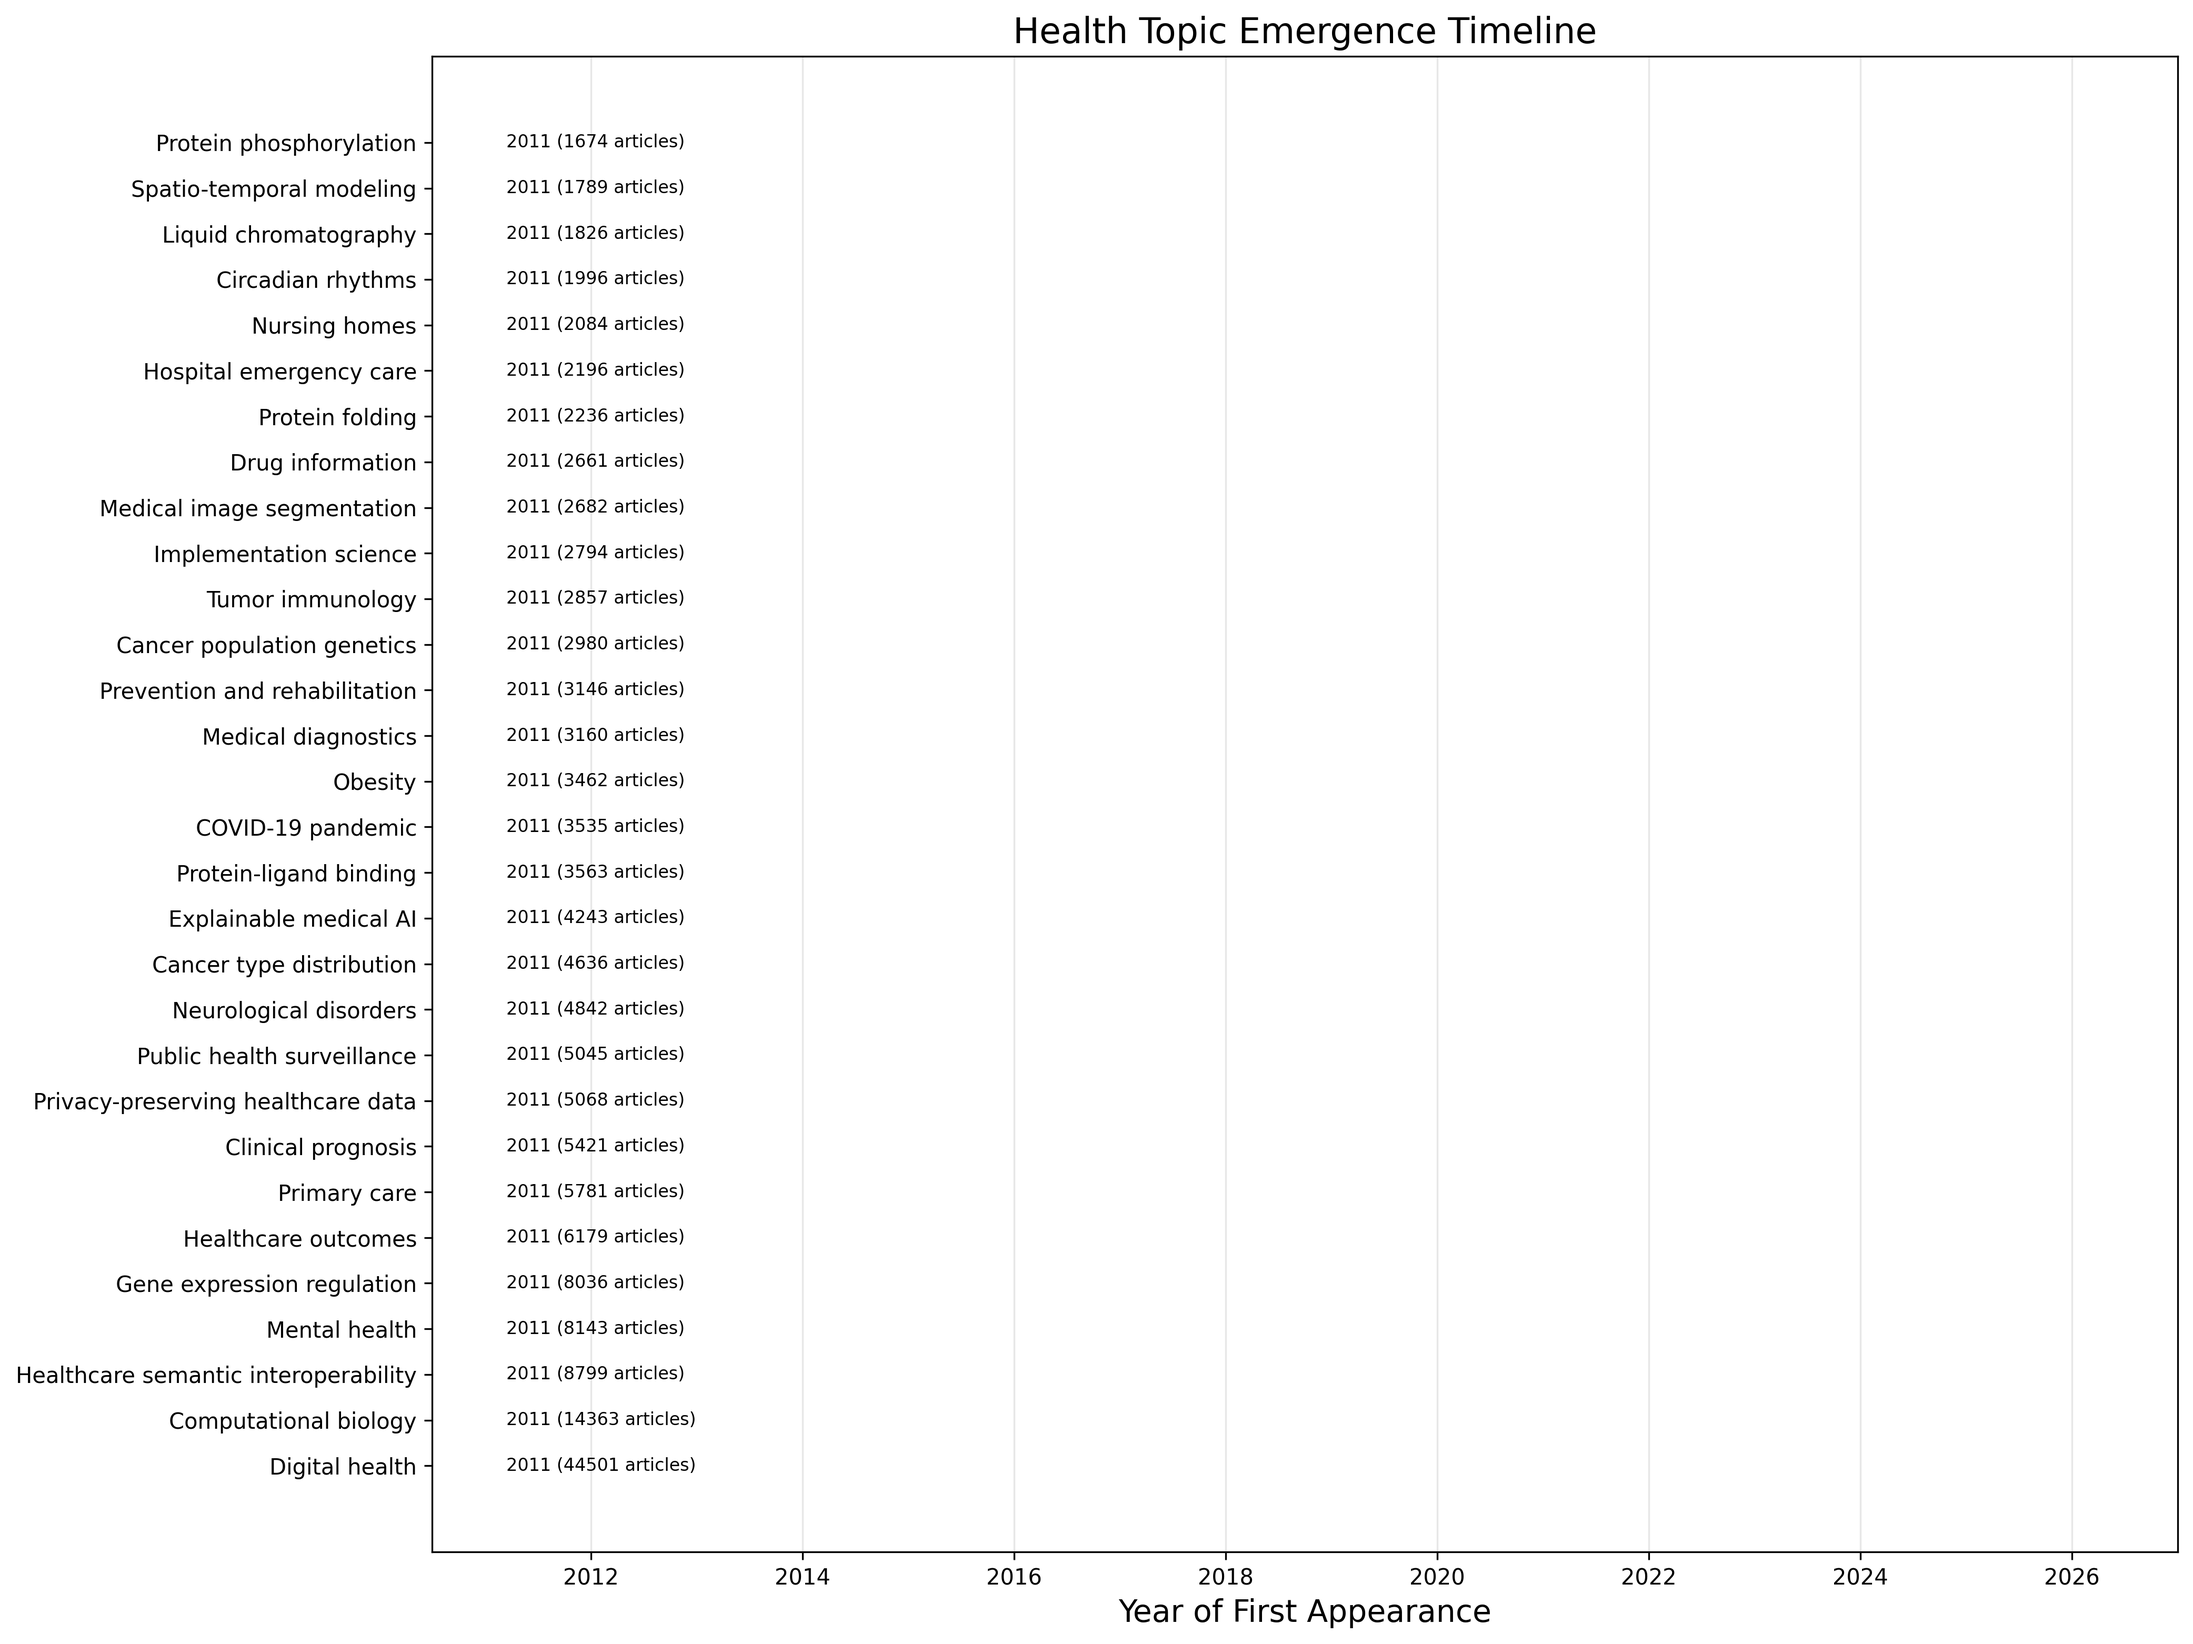
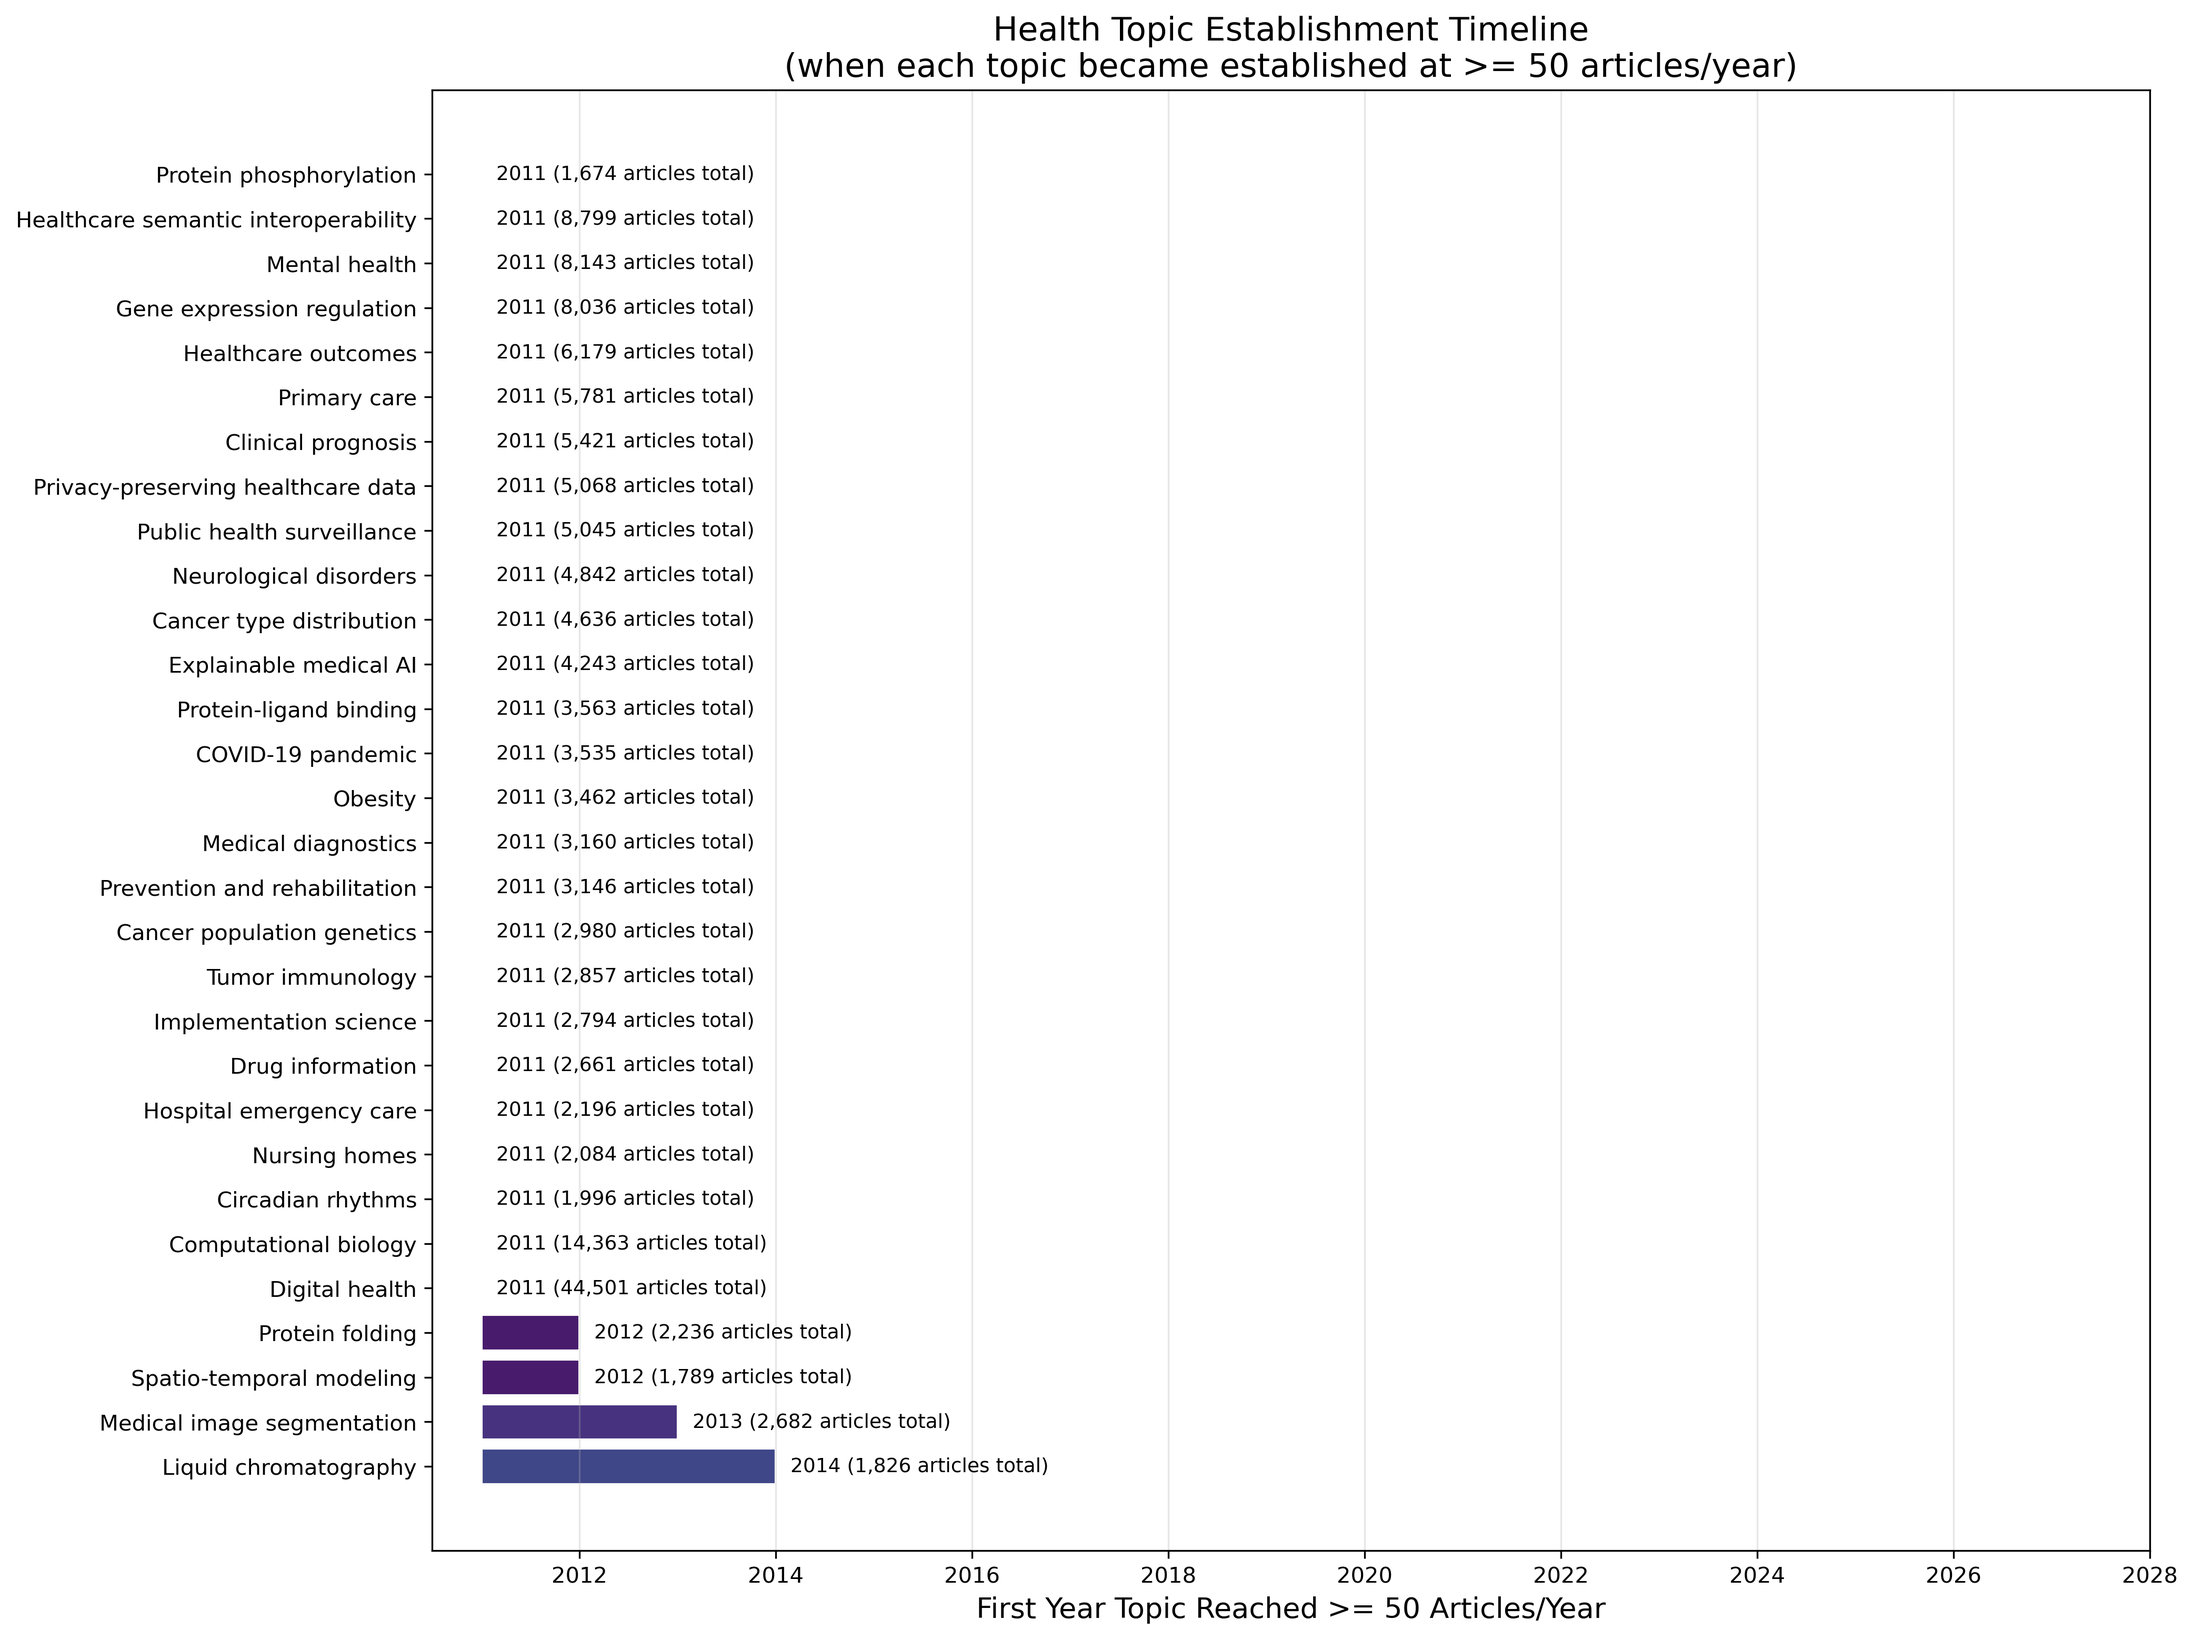
Fix N4 (meaningful emergence threshold) and N6 (readable journal abbreviations)

diff --git a/fix_n4_n6.py b/fix_n4_n6.py
@@ -1,0 +1,280 @@
+"""
+Fix N4 (topic emergence) and N6 (journal similarity network) visualizations.
+
+N4 fix: redefine "emergence" as the first year a topic became established
+        (>= 50 articles/year), rather than the first year it had any article.
+        This produces a meaningful timeline showing which topics became
+        established early vs. recently.
+
+N6 fix: use clean journal abbreviations, larger figure, kamada-kawai layout
+        with improved spacing for readable labels.
+"""
+
+import csv
+import json
+import os
+from collections import Counter, defaultdict
+
+import matplotlib
+matplotlib.use("Agg")
+import matplotlib.pyplot as plt
+import numpy as np
+import pandas as pd
+
+DATA_DIR = os.path.expanduser("~/Dropbox/multi_journal_trend_analysis/data")
+VIZ_DIR = os.path.join(DATA_DIR, "visualizations")
+HIER_DIR = os.path.join(DATA_DIR, "hierarchy")
+ARTICLES_CSV = os.path.join(DATA_DIR, "pubmed_all_journals_2011_2025_w_keywords.csv")
+
+YEARS = list(range(2011, 2026))
+
+# Clean journal abbreviations
+JOURNAL_ABBR = {
+    "Journal of the American Medical Informatics Association (JAMIA)": "JAMIA",
+    "Journal of Medical Internet Research (JMIR)": "JMIR",
+    "IEEE Journal of Biomedical and Health Informatics (J-BHI)": "IEEE J-BHI",
+    "Journal of Biomedical Informatics (JBI)": "JBI",
+    "International Journal of Medical Informatics (IJMI)": "IJMI",
+    "JMIR Medical Informatics (JMI)": "JMIR Med Inform",
+    "npj Digital Medicine": "npj Digit Med",
+    "The Lancet Digital Health": "Lancet Digit Health",
+    "Briefings in Bioinformatics": "Brief Bioinform",
+    "Bioinformatics": "Bioinformatics",
+    "JAMIA Open": "JAMIA Open",
+    "BMC Medical Informatics and Decision Making": "BMC Med Inform",
+    "PLOS Digital Health": "PLOS Digit Health",
+    "Journal of Medical Systems": "J Med Syst",
+    "Methods of Information in Medicine": "Methods Inf Med",
+    "BMJ Health & Care Informatics": "BMJ Health Care",
+    "Health Informatics Journal": "Health Inform J",
+    "Applied Clinical Informatics": "Appl Clin Inform",
+    "JMIR mHealth and uHealth": "JMIR mHealth",
+    "Computers in Biology and Medicine": "Comput Biol Med",
+    "Artificial Intelligence in Medicine": "Artif Intell Med",
+    "Journal of Clinical and Translational Science": "J Clin Transl Sci",
+    "Database: The Journal of Biological Databases and Curation": "Database",
+    "Bioinformatics Advances": "Bioinform Adv",
+    "Journal of Innovation in Health Informatics": "J Innov Health Inform",
+    "Digital Biomarkers": "Digit Biomark",
+    "Frontiers in Digital Health": "Front Digit Health",
+    "Nature Medicine": "Nat Med",
+    "Nature Methods": "Nat Methods",
+}
+
+
+# ---------------------------------------------------------------------------
+# N4 FIX: Topic Emergence (defined as first year reaching threshold)
+# ---------------------------------------------------------------------------
+
+def plot_emergence_fixed(domain, threshold=50, top_n=30):
+    """Plot when each top topic became 'established' (>= threshold articles/year)."""
+    csv_path = os.path.join(VIZ_DIR, f"{domain}_topic_year_counts.csv")
+    df = pd.read_csv(csv_path)
+
+    # For each topic, find the first year it reached the threshold
+    rows = []
+    for _, row in df.iterrows():
+        topic = row["topic"]
+        total = row["total"]
+        # Find first year >= threshold
+        emergence_year = None
+        for y in YEARS:
+            if row[str(y)] >= threshold:
+                emergence_year = y
+                break
+        if emergence_year is None:
+            continue
+        rows.append({
+            "topic": topic,
+            "total": total,
+            "emergence_year": emergence_year,
+        })
+
+    if not rows:
+        print(f"  No topics found for {domain}")
+        return
+
+    emerge_df = pd.DataFrame(rows)
+    # Take top N by total
+    emerge_df = emerge_df.nlargest(top_n, "total")
+    # Sort by emergence year (newest first at top of plot)
+    emerge_df = emerge_df.sort_values("emergence_year", ascending=False)
+
+    # Color by emergence year
+    norm = (emerge_df["emergence_year"] - YEARS[0]) / (YEARS[-1] - YEARS[0])
+    colors = plt.cm.viridis(norm)
+
+    fig, ax = plt.subplots(figsize=(14, max(8, top_n * 0.35)))
+    ax.barh(
+        emerge_df["topic"],
+        emerge_df["emergence_year"] - YEARS[0],
+        left=YEARS[0],
+        color=colors,
+        edgecolor="white",
+    )
+    for i, row in enumerate(emerge_df.itertuples()):
+        ax.text(
+            row.emergence_year + 0.15,
+            i,
+            f"{row.emergence_year} ({int(row.total):,} articles total)",
+            va="center",
+            fontsize=9,
+        )
+
+    ax.set_xlabel(
+        f"First Year Topic Reached >= {threshold} Articles/Year",
+        fontsize=13,
+    )
+    ax.set_title(
+        f"{domain.title()} Topic Establishment Timeline\n"
+        f"(when each topic became established at >= {threshold} articles/year)",
+        fontsize=15,
+    )
+    ax.set_xlim(YEARS[0] - 0.5, YEARS[-1] + 3)
+    ax.grid(True, alpha=0.3, axis="x")
+    plt.tight_layout()
+
+    out_path = os.path.join(VIZ_DIR, f"n4_{domain}_topic_emergence.png")
+    plt.savefig(out_path, dpi=300, bbox_inches="tight")
+    plt.close()
+    print(f"  Saved {out_path}")
+
+
+# ---------------------------------------------------------------------------
+# N6 FIX: Journal Similarity Network with readable labels
+# ---------------------------------------------------------------------------
+
+def plot_similarity_network_fixed():
+    """Re-plot the journal similarity network with clean abbreviations and layout."""
+    import networkx as nx
+    from sklearn.metrics.pairwise import cosine_similarity
+
+    # Load the topic mapping data we need
+    print("  Loading articles CSV...")
+    df = pd.read_csv(ARTICLES_CSV, quoting=csv.QUOTE_ALL)
+
+    print("  Loading methodology topics...")
+    with open(os.path.join(HIER_DIR, "methodology_final_topics.json"), "r") as f:
+        method_topics = json.load(f)
+
+    # Build keyword -> topic name map
+    kw_to_topic = defaultdict(set)
+    for tid, data in method_topics.items():
+        for kw in data.get("keywords", []):
+            kw_to_topic[kw.strip().lower()].add(data["name"])
+
+    # For each journal, count articles per topic
+    print("  Mapping articles to topics...")
+    journal_topic = defaultdict(Counter)
+    journal_total = Counter()
+
+    for _, row in df.iterrows():
+        kw_str = row.get("keywords", "")
+        if pd.isna(kw_str) or not kw_str:
+            continue
+        journal = row.get("journal", "unknown")
+        journal_total[journal] += 1
+        topics_in_article = set()
+        for kw in str(kw_str).split(";"):
+            kw = kw.strip().lower()
+            if kw in kw_to_topic:
+                topics_in_article.update(kw_to_topic[kw])
+        for t in topics_in_article:
+            journal_topic[journal][t] += 1
+
+    # Build topic-distribution vectors per journal
+    all_topics = sorted({t for j in journal_topic.values() for t in j})
+    journals = sorted(journal_topic.keys())
+
+    vectors = []
+    for j in journals:
+        total = journal_total[j]
+        vec = np.array([journal_topic[j].get(t, 0) / max(total, 1) for t in all_topics])
+        vectors.append(vec)
+    vectors = np.array(vectors)
+
+    sim = cosine_similarity(vectors)
+
+    # Build network
+    G = nx.Graph()
+    for j in journals:
+        abbr = JOURNAL_ABBR.get(j, j[:20])
+        G.add_node(abbr, size=journal_total[j])
+
+    # Connect journals with similarity above 70th percentile
+    upper = sim[np.triu_indices_from(sim, k=1)]
+    threshold = np.percentile(upper, 70)
+    for i in range(len(journals)):
+        for j in range(i + 1, len(journals)):
+            if sim[i, j] > threshold:
+                a = JOURNAL_ABBR.get(journals[i], journals[i][:20])
+                b = JOURNAL_ABBR.get(journals[j], journals[j][:20])
+                G.add_edge(a, b, weight=float(sim[i, j]))
+
+    print(f"  Network: {len(G.nodes)} nodes, {len(G.edges)} edges")
+
+    # Use kamada-kawai layout for better spacing
+    pos = nx.kamada_kawai_layout(G)
+
+    fig, ax = plt.subplots(figsize=(20, 16))
+
+    # Node sizes proportional to article count
+    sizes = [G.nodes[n].get("size", 100) / 4 for n in G.nodes]
+    weights = [G[u][v]["weight"] * 4 for u, v in G.edges]
+
+    nx.draw_networkx_edges(
+        G, pos, width=weights, alpha=0.4, edge_color="#7f8c8d", ax=ax,
+    )
+    nx.draw_networkx_nodes(
+        G, pos,
+        node_color="#5dade2",
+        node_size=sizes,
+        edgecolors="#1f618d",
+        linewidths=2,
+        alpha=0.9,
+        ax=ax,
+    )
+
+    # Draw labels with white background for readability
+    label_pos = {n: (p[0], p[1] + 0.04) for n, p in pos.items()}
+    for node, (x, y) in label_pos.items():
+        ax.text(
+            x, y, node,
+            ha="center", va="center",
+            fontsize=11, fontweight="bold",
+            bbox=dict(
+                boxstyle="round,pad=0.4",
+                facecolor="white",
+                edgecolor="#1f618d",
+                alpha=0.9,
+            ),
+        )
+
+    ax.set_title(
+        "Journal Similarity Network\n"
+        "(based on methodology topic distributions; edge thickness = similarity)",
+        fontsize=18,
+    )
+    ax.axis("off")
+    ax.margins(0.15)
+    plt.tight_layout()
+
+    out_path = os.path.join(VIZ_DIR, "n6_journal_similarity_network.png")
+    plt.savefig(out_path, dpi=300, bbox_inches="tight")
+    plt.close()
+    print(f"  Saved {out_path}")
+
+
+# ---------------------------------------------------------------------------
+# Main
+# ---------------------------------------------------------------------------
+
+if __name__ == "__main__":
+    print("Fixing N4: Topic Emergence (using >= 50 articles/year threshold)...")
+    plot_emergence_fixed("methodology", threshold=50, top_n=30)
+    plot_emergence_fixed("health", threshold=50, top_n=30)
+
+    print("\nFixing N6: Journal Similarity Network (clean abbreviations)...")
+    plot_similarity_network_fixed()
+
+    print("\nDone.")
